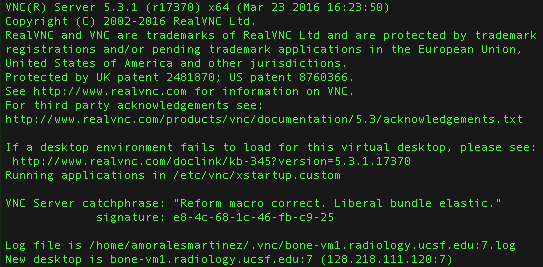
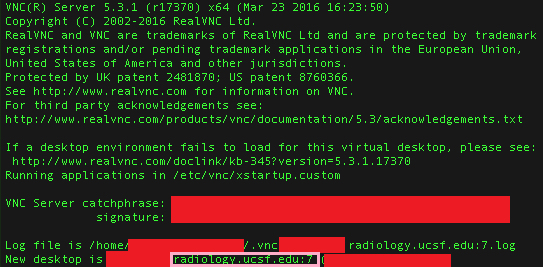
Remove sensitive info

Changed region(s): [[0.2947, 0.7191, 0.9429, 0.839], [0.1768, 0.8689, 0.8545, 1.0]]

diff --git a/docs/page/index.html b/docs/page/index.html
@@ -147,7 +147,7 @@
 <p>Here are two popular and powerful machine learning libraries used for deep learning:</p>
 <h3 id="tensorflow">TensorFlow</h3>
 <ul>
-<li>Install the latest TensorFlow version in your Python virtual environment by <a href="../pythonresources">activating the virtual environment</a> and running the following commands in the terminal:
+<li>Install the latest TensorFlow version in your Python virtual environment by <a href="https://alemorm.github.io/ucsf-radiology-getting-started/pages/pythonresources">activating the virtual environment</a> and running the following commands in the terminal:
 <ul>
 <li><code>conda install tensorflow-gpu -y</code></li>
 </ul>
@@ -156,7 +156,7 @@
 <hr>
 <h3 id="pytorch">PyTorch</h3>
 <ul>
-<li>Install the latest PyTorch version in your Python virtual environment by <a href="../pythonresources">activating the virtual environment</a> and running the following command:
+<li>Install the latest PyTorch version in your Python virtual environment by <a href="https://alemorm.github.io/ucsf-radiology-getting-started/pages/pythonresources">activating the virtual environment</a> and running the following command:
 <ul>
 <li><code>conda install pytorch torchvision -y</code></li>
 </ul>
@@ -208,8 +208,8 @@
 <ul>
 <li><strong>Peder Larson Group:</strong>
 <ul>
-<li><a href="../../materials/git_tutorial.pdf">Git Tutorial</a></li>
-<li><a href="../../materials/Software_Development_for_Scientists.pdf">Software Development for Scientists</a></li>
+<li><a href="https://alemorm.github.io/ucsf-radiology-getting-started/materials/git_tutorial.pdf">Git Tutorial</a></li>
+<li><a href="https://alemorm.github.io/ucsf-radiology-getting-started/materials/Software_Development_for_Scientists.pdf">Software Development for Scientists</a></li>
 </ul>
 </li>
 </ul>
@@ -281,7 +281,7 @@ Installation  Follow the earlier steps to SSH into one of the servers Activate y
                 
                   Linux Resources The radiology servers are running a Linux distribution called Red Hat Enterprise Linux (current version is 7) and therefore it is highly recommended to get familiar with Linux.
 Note: Keep in mind that the servers run tcsh by default, which is very similar to bash with some slight differences. You can type bash into any terminal to start using bash.
- Beginner&rsquo;s Guide to the Bash Terminal      Linux cheatsheet  A collection of useful Linux commands     testlink
+ Beginner&rsquo;s Guide to the Bash Terminal      Linux cheatsheet  A collection of useful Linux commands      MIT Missing Semester  For a more advanced dive into these concepts, the MIT Missing Semester is another great resource to learn about linux.
                   <a href="https://alemorm.github.io/ucsf-radiology-getting-started/page/linuxresources/" class="post-read-more">[Read More]</a>
                 
               </div>
@@ -367,16 +367,16 @@ Using Matlab is quite simple, all it requires is typing the following command in
 <p><a href="https://www.siemens-healthineers.com/en-us/magnetic-resonance-imaging/magnetom-world/publications/mr-basics"><strong>Siemens</strong>:</a></p>
 <ul>
 <li>
-<p><a href="../../materials/magnets_spins_and_resonances-00016929.pdf"><em>MRI Physics</em></a></p>
+<p><a href="https://alemorm.github.io/ucsf-radiology-getting-started/materials/magnets_spins_and_resonances-00016929.pdf"><em>MRI Physics</em></a></p>
 </li>
 <li>
-<p><a href="../../materials/magnets_flows_and_artifacts-00016930.pdf"><em>MRI Acquisition and Artifacts</em></a></p>
+<p><a href="https://alemorm.github.io/ucsf-radiology-getting-started/materials/magnets_flows_and_artifacts-00016930.pdf"><em>MRI Acquisition and Artifacts</em></a></p>
 </li>
 <li>
-<p><a href="../../materials/mr_glossary-00016927.pdf"><em>MRI Glossary</em></a></p>
+<p><a href="https://alemorm.github.io/ucsf-radiology-getting-started/materials/mr_glossary-00016927.pdf"><em>MRI Glossary</em></a></p>
 </li>
 <li>
-<p><a href="../../materials/mri_acronyms-00033460.pdf"><em>MRI Acronyms</em></a></p>
+<p><a href="https://alemorm.github.io/ucsf-radiology-getting-started/materials/mri_acronyms-00033460.pdf"><em>MRI Acronyms</em></a></p>
 </li>
 </ul>
 </li>
@@ -445,7 +445,7 @@ Using Matlab is quite simple, all it requires is typing the following command in
               <div class="post-entry">
                 
                   Radiology Server Access All of the imaging and medical patient data is located within UCSF Radiology encrypted Linux servers. Here is how to access them:
-List of Radiology servers Please refer to the full list of Radiology servers for a comprehensive list of servers grouped by CPU and GPU resources.
+List of Radiology servers Please refer to the full list of Radiology servers (requires UCSF login) for a comprehensive list of servers grouped by CPU and GPU resources.
  Here are the two main ways to access the servers:
 SSH Mac and Linux users  Open a terminal and type the following:  ssh username@servername.
                   <a href="https://alemorm.github.io/ucsf-radiology-getting-started/page/serveraccessresources/" class="post-read-more">[Read More]</a>

diff --git a/docs/page/serveraccessresources/index.html b/docs/page/serveraccessresources/index.html
@@ -126,7 +126,7 @@
         <h2 id="radiology-server-access">Radiology Server Access</h2>
 <p>All of the imaging and medical patient data is located within UCSF Radiology encrypted Linux servers. Here is how to access them:</p>
 <h3 id="list-of-radiology-servers">List of Radiology servers</h3>
-<p>Please refer to the <a href="https://git.radiology.ucsf.edu/amoralesmartinez/ucsf-getting-started/-/blob/6120498a5f7c45429992b1292e77f0a6f5d2c950/content/materials/listofservers.md">full list of Radiology servers</a> for a comprehensive list of servers grouped by CPU and GPU resources.</p>
+<p>Please refer to the <a href="https://git.radiology.ucsf.edu/amoralesmartinez/ucsf-getting-started/-/blob/6120498a5f7c45429992b1292e77f0a6f5d2c950/content/materials/listofservers.md">full list of Radiology servers (requires UCSF login)</a> for a comprehensive list of servers grouped by CPU and GPU resources.</p>
 <hr>
 <p>Here are the two main ways to access the servers:</p>
 <h3 id="ssh">SSH</h3>
@@ -135,11 +135,7 @@
 <li>Open a terminal and type the following:
 <ul>
 <li><code>ssh username@servername.radiology.ucsf.edu -L 9XXX:localhost:9XXX</code></li>
-<li>For the above command make sure to replace the <code>username</code> with your own, the  <code>servername</code> with any of the <a href="https://git.radiology.ucsf.edu/amoralesmartinez/ucsf-getting-started/-/blob/6120498a5f7c45429992b1292e77f0a6f5d2c950/content/materials/listofservers.md">listed server names</a> and the <code>9XXX</code> with a number above <code>9020</code>
-<ul>
-<li>e.g. <code>ssh jdoe@diffusion.radiology.ucsf.edu -L 9032:localhost:9032</code></li>
-</ul>
-</li>
+<li>For the above command make sure to replace the <code>username</code> with your own, the  <code>servername</code> with any of the <a href="https://git.radiology.ucsf.edu/amoralesmartinez/ucsf-getting-started/-/blob/6120498a5f7c45429992b1292e77f0a6f5d2c950/content/materials/listofservers.md">listed server names (requires UCSF login)</a> and the <code>9XXX</code> with a number above <code>9020</code></li>
 <li>There will be a prompt for your UCSF password</li>
 </ul>
 </li>
@@ -148,11 +144,7 @@
 <ul>
 <li>Use WSL, PuTTY, Cygwin or any other SSH service:
 <ul>
-<li>Write <em>servername.radiology.ucsf.edu</em> as the host name
-<ul>
-<li>e.g. <code>titan.radiology.ucsf.edu</code></li>
-</ul>
-</li>
+<li>Write <em>servername.radiology.ucsf.edu</em> as the host name</li>
 <li>Specify the local port forwarding, using the same number <code>9XXX</code>, higher than <code>9020</code>, both the source port and the destination port</li>
 <li>There will be a prompt for your UCSF password</li>
 </ul>
@@ -170,11 +162,11 @@
 </ul>
 </li>
 </ul>
-<p><img src="https://alemorm.github.io/ucsf-radiology-getting-started/support/vncserversample.png" alt="image" title="Sample Image"></p>
+<p><img src="https://alemorm.github.io/ucsf-radiology-getting-started/materials/vncserversample.png" alt="image" title="Sample Image"></p>
 <ul>
 <li>Open VNC Viewer and type the server information in the form that was written in that last line under &lsquo;VNC Server&rsquo;
 <ul>
-<li>e.g. <code>bone-vm1.radiology.ucsf.edu:7</code></li>
+<li>e.g. <code>servername.radiology.ucsf.edu:7</code></li>
 <li>You will be prompted for your UCSF username and password.</li>
 </ul>
 </li>

diff --git a/docs/tags/linux/index.html b/docs/tags/linux/index.html
@@ -157,8 +157,8 @@
 <ul>
 <li><strong>Peder Larson Group:</strong>
 <ul>
-<li><a href="../../materials/git_tutorial.pdf">Git Tutorial</a></li>
-<li><a href="../../materials/Software_Development_for_Scientists.pdf">Software Development for Scientists</a></li>
+<li><a href="https://alemorm.github.io/ucsf-radiology-getting-started/materials/git_tutorial.pdf">Git Tutorial</a></li>
+<li><a href="https://alemorm.github.io/ucsf-radiology-getting-started/materials/Software_Development_for_Scientists.pdf">Software Development for Scientists</a></li>
 </ul>
 </li>
 </ul>
@@ -196,7 +196,7 @@
                 
                   Linux Resources The radiology servers are running a Linux distribution called Red Hat Enterprise Linux (current version is 7) and therefore it is highly recommended to get familiar with Linux.
 Note: Keep in mind that the servers run tcsh by default, which is very similar to bash with some slight differences. You can type bash into any terminal to start using bash.
- Beginner&rsquo;s Guide to the Bash Terminal      Linux cheatsheet  A collection of useful Linux commands     testlink
+ Beginner&rsquo;s Guide to the Bash Terminal      Linux cheatsheet  A collection of useful Linux commands      MIT Missing Semester  For a more advanced dive into these concepts, the MIT Missing Semester is another great resource to learn about linux.
                   <a href="https://alemorm.github.io/ucsf-radiology-getting-started/page/linuxresources/" class="post-read-more">[Read More]</a>
                 
               </div>
@@ -228,7 +228,7 @@ Note: Keep in mind that the servers run tcsh by default, which is very similar t
               <div class="post-entry">
                 
                   Radiology Server Access All of the imaging and medical patient data is located within UCSF Radiology encrypted Linux servers. Here is how to access them:
-List of Radiology servers Please refer to the full list of Radiology servers for a comprehensive list of servers grouped by CPU and GPU resources.
+List of Radiology servers Please refer to the full list of Radiology servers (requires UCSF login) for a comprehensive list of servers grouped by CPU and GPU resources.
  Here are the two main ways to access the servers:
 SSH Mac and Linux users  Open a terminal and type the following:  ssh username@servername.
                   <a href="https://alemorm.github.io/ucsf-radiology-getting-started/page/serveraccessresources/" class="post-read-more">[Read More]</a>

diff --git a/docs/index.html b/docs/index.html
@@ -9,9 +9,9 @@
   <meta property="og:title" content="Getting Started" />
   <meta name="twitter:title" content="Getting Started" />
   <meta name="description" content="Decription A collection of useful educational resources and tutorials in order to learn about MRI imaging, access the UCSF Radiology servers, set up a working python virtual environment and access tools such as Jupyter Lab, Matlab, TensorFlow and PyTorch.
- Table of contents   Linux Basics   Git Basics   Server Access   Matlab   Python   Jupyter   Deep Learning    testlink">
+ Table of contents   Linux Basics   Git Basics   Server Access   Matlab   Python   Jupyter   Deep Learning    This website is being actively maintained and improved.">
   <meta property="og:description" content="Decription A collection of useful educational resources and tutorials in order to learn about MRI imaging, access the UCSF Radiology servers, set up a working python virtual environment and access tools such as Jupyter Lab, Matlab, TensorFlow and PyTorch.
- Table of contents   Linux Basics   Git Basics   Server Access   Matlab   Python   Jupyter   Deep Learning    testlink">
+ Table of contents   Linux Basics   Git Basics   Server Access   Matlab   Python   Jupyter   Deep Learning    This website is being actively maintained and improved.">
   <meta name="twitter:description" content="Decription A collection of useful educational resources and tutorials in order to learn about MRI imaging, access the UCSF Radiology servers, set up a working python virtual environment and access …">
   <meta name="author" content="Alejandro"/>
   <link href='https://alemorm.github.io/ucsf-radiology-getting-started/img/favicon.ico' rel='icon' type='image/x-icon'/>
@@ -177,7 +177,6 @@
 </li>
 </ol>
 <hr>
-<p><a href="https://alemorm.github.io/ucsf-radiology-getting-started/page/linuxresources/">testlink</a></p>
 <p><em>This website is being actively maintained and improved. <a href="mailto:alejandro.moralesmartinez@ucsf.edu">Please contact me if you experience any issues</a></em></p>
 
           </div>

diff --git a/docs/page/dlresources/index.html b/docs/page/dlresources/index.html
@@ -127,7 +127,7 @@
 <p>Here are two popular and powerful machine learning libraries used for deep learning:</p>
 <h3 id="tensorflow">TensorFlow</h3>
 <ul>
-<li>Install the latest TensorFlow version in your Python virtual environment by <a href="../pythonresources">activating the virtual environment</a> and running the following commands in the terminal:
+<li>Install the latest TensorFlow version in your Python virtual environment by <a href="https://alemorm.github.io/ucsf-radiology-getting-started/pages/pythonresources">activating the virtual environment</a> and running the following commands in the terminal:
 <ul>
 <li><code>conda install tensorflow-gpu -y</code></li>
 </ul>
@@ -136,7 +136,7 @@
 <hr>
 <h3 id="pytorch">PyTorch</h3>
 <ul>
-<li>Install the latest PyTorch version in your Python virtual environment by <a href="../pythonresources">activating the virtual environment</a> and running the following command:
+<li>Install the latest PyTorch version in your Python virtual environment by <a href="https://alemorm.github.io/ucsf-radiology-getting-started/pages/pythonresources">activating the virtual environment</a> and running the following command:
 <ul>
 <li><code>conda install pytorch torchvision -y</code></li>
 </ul>

diff --git a/docs/tags/deeplearning/index.html b/docs/tags/deeplearning/index.html
@@ -147,7 +147,7 @@
 <p>Here are two popular and powerful machine learning libraries used for deep learning:</p>
 <h3 id="tensorflow">TensorFlow</h3>
 <ul>
-<li>Install the latest TensorFlow version in your Python virtual environment by <a href="../pythonresources">activating the virtual environment</a> and running the following commands in the terminal:
+<li>Install the latest TensorFlow version in your Python virtual environment by <a href="https://alemorm.github.io/ucsf-radiology-getting-started/pages/pythonresources">activating the virtual environment</a> and running the following commands in the terminal:
 <ul>
 <li><code>conda install tensorflow-gpu -y</code></li>
 </ul>
@@ -156,7 +156,7 @@
 <hr>
 <h3 id="pytorch">PyTorch</h3>
 <ul>
-<li>Install the latest PyTorch version in your Python virtual environment by <a href="../pythonresources">activating the virtual environment</a> and running the following command:
+<li>Install the latest PyTorch version in your Python virtual environment by <a href="https://alemorm.github.io/ucsf-radiology-getting-started/pages/pythonresources">activating the virtual environment</a> and running the following command:
 <ul>
 <li><code>conda install pytorch torchvision -y</code></li>
 </ul>

diff --git a/docs/tags/python/index.html b/docs/tags/python/index.html
@@ -147,7 +147,7 @@
 <p>Here are two popular and powerful machine learning libraries used for deep learning:</p>
 <h3 id="tensorflow">TensorFlow</h3>
 <ul>
-<li>Install the latest TensorFlow version in your Python virtual environment by <a href="../pythonresources">activating the virtual environment</a> and running the following commands in the terminal:
+<li>Install the latest TensorFlow version in your Python virtual environment by <a href="https://alemorm.github.io/ucsf-radiology-getting-started/pages/pythonresources">activating the virtual environment</a> and running the following commands in the terminal:
 <ul>
 <li><code>conda install tensorflow-gpu -y</code></li>
 </ul>
@@ -156,7 +156,7 @@
 <hr>
 <h3 id="pytorch">PyTorch</h3>
 <ul>
-<li>Install the latest PyTorch version in your Python virtual environment by <a href="../pythonresources">activating the virtual environment</a> and running the following command:
+<li>Install the latest PyTorch version in your Python virtual environment by <a href="https://alemorm.github.io/ucsf-radiology-getting-started/pages/pythonresources">activating the virtual environment</a> and running the following command:
 <ul>
 <li><code>conda install pytorch torchvision -y</code></li>
 </ul>

diff --git a/docs/page/mriresources/index.html b/docs/page/mriresources/index.html
@@ -145,16 +145,16 @@
 <p><a href="https://www.siemens-healthineers.com/en-us/magnetic-resonance-imaging/magnetom-world/publications/mr-basics"><strong>Siemens</strong>:</a></p>
 <ul>
 <li>
-<p><a href="../../materials/magnets_spins_and_resonances-00016929.pdf"><em>MRI Physics</em></a></p>
+<p><a href="https://alemorm.github.io/ucsf-radiology-getting-started/materials/magnets_spins_and_resonances-00016929.pdf"><em>MRI Physics</em></a></p>
 </li>
 <li>
-<p><a href="../../materials/magnets_flows_and_artifacts-00016930.pdf"><em>MRI Acquisition and Artifacts</em></a></p>
+<p><a href="https://alemorm.github.io/ucsf-radiology-getting-started/materials/magnets_flows_and_artifacts-00016930.pdf"><em>MRI Acquisition and Artifacts</em></a></p>
 </li>
 <li>
-<p><a href="../../materials/mr_glossary-00016927.pdf"><em>MRI Glossary</em></a></p>
+<p><a href="https://alemorm.github.io/ucsf-radiology-getting-started/materials/mr_glossary-00016927.pdf"><em>MRI Glossary</em></a></p>
 </li>
 <li>
-<p><a href="../../materials/mri_acronyms-00033460.pdf"><em>MRI Acronyms</em></a></p>
+<p><a href="https://alemorm.github.io/ucsf-radiology-getting-started/materials/mri_acronyms-00033460.pdf"><em>MRI Acronyms</em></a></p>
 </li>
 </ul>
 </li>

diff --git a/docs/tags/mri/index.html b/docs/tags/mri/index.html
@@ -165,16 +165,16 @@
 <p><a href="https://www.siemens-healthineers.com/en-us/magnetic-resonance-imaging/magnetom-world/publications/mr-basics"><strong>Siemens</strong>:</a></p>
 <ul>
 <li>
-<p><a href="../../materials/magnets_spins_and_resonances-00016929.pdf"><em>MRI Physics</em></a></p>
+<p><a href="https://alemorm.github.io/ucsf-radiology-getting-started/materials/magnets_spins_and_resonances-00016929.pdf"><em>MRI Physics</em></a></p>
 </li>
 <li>
-<p><a href="../../materials/magnets_flows_and_artifacts-00016930.pdf"><em>MRI Acquisition and Artifacts</em></a></p>
+<p><a href="https://alemorm.github.io/ucsf-radiology-getting-started/materials/magnets_flows_and_artifacts-00016930.pdf"><em>MRI Acquisition and Artifacts</em></a></p>
 </li>
 <li>
-<p><a href="../../materials/mr_glossary-00016927.pdf"><em>MRI Glossary</em></a></p>
+<p><a href="https://alemorm.github.io/ucsf-radiology-getting-started/materials/mr_glossary-00016927.pdf"><em>MRI Glossary</em></a></p>
 </li>
 <li>
-<p><a href="../../materials/mri_acronyms-00033460.pdf"><em>MRI Acronyms</em></a></p>
+<p><a href="https://alemorm.github.io/ucsf-radiology-getting-started/materials/mri_acronyms-00033460.pdf"><em>MRI Acronyms</em></a></p>
 </li>
 </ul>
 </li>

diff --git a/docs/tags/ssh/index.html b/docs/tags/ssh/index.html
@@ -144,7 +144,7 @@
               <div class="post-entry">
                 
                   Radiology Server Access All of the imaging and medical patient data is located within UCSF Radiology encrypted Linux servers. Here is how to access them:
-List of Radiology servers Please refer to the full list of Radiology servers for a comprehensive list of servers grouped by CPU and GPU resources.
+List of Radiology servers Please refer to the full list of Radiology servers (requires UCSF login) for a comprehensive list of servers grouped by CPU and GPU resources.
  Here are the two main ways to access the servers:
 SSH Mac and Linux users  Open a terminal and type the following:  ssh username@servername.
                   <a href="https://alemorm.github.io/ucsf-radiology-getting-started/page/serveraccessresources/" class="post-read-more">[Read More]</a>

diff --git a/docs/tags/vnc/index.html b/docs/tags/vnc/index.html
@@ -144,7 +144,7 @@
               <div class="post-entry">
                 
                   Radiology Server Access All of the imaging and medical patient data is located within UCSF Radiology encrypted Linux servers. Here is how to access them:
-List of Radiology servers Please refer to the full list of Radiology servers for a comprehensive list of servers grouped by CPU and GPU resources.
+List of Radiology servers Please refer to the full list of Radiology servers (requires UCSF login) for a comprehensive list of servers grouped by CPU and GPU resources.
  Here are the two main ways to access the servers:
 SSH Mac and Linux users  Open a terminal and type the following:  ssh username@servername.
                   <a href="https://alemorm.github.io/ucsf-radiology-getting-started/page/serveraccessresources/" class="post-read-more">[Read More]</a>

diff --git a/docs/page/jupyterresources/index.html b/docs/page/jupyterresources/index.html
@@ -127,8 +127,8 @@
 <p>One of the simplest and most versatile ways to use python is through Jupyter Lab. In order to get it working within your virtual environment, follow these steps:</p>
 <h4 id="installation">Installation</h4>
 <ul>
-<li><a href="../sshresources">Follow the earlier steps to SSH into one of the servers</a></li>
-<li><a href="../pythonresources">Activate your virtual environment</a></li>
+<li><a href="https://alemorm.github.io/ucsf-radiology-getting-started/pages/sshresources">Follow the earlier steps to SSH into one of the servers</a></li>
+<li><a href="https://alemorm.github.io/ucsf-radiology-getting-started/pages/pythonresources">Activate your virtual environment</a></li>
 <li>Run the following commands:
 <ul>
 <li>If you created an empty environment, use the following command
